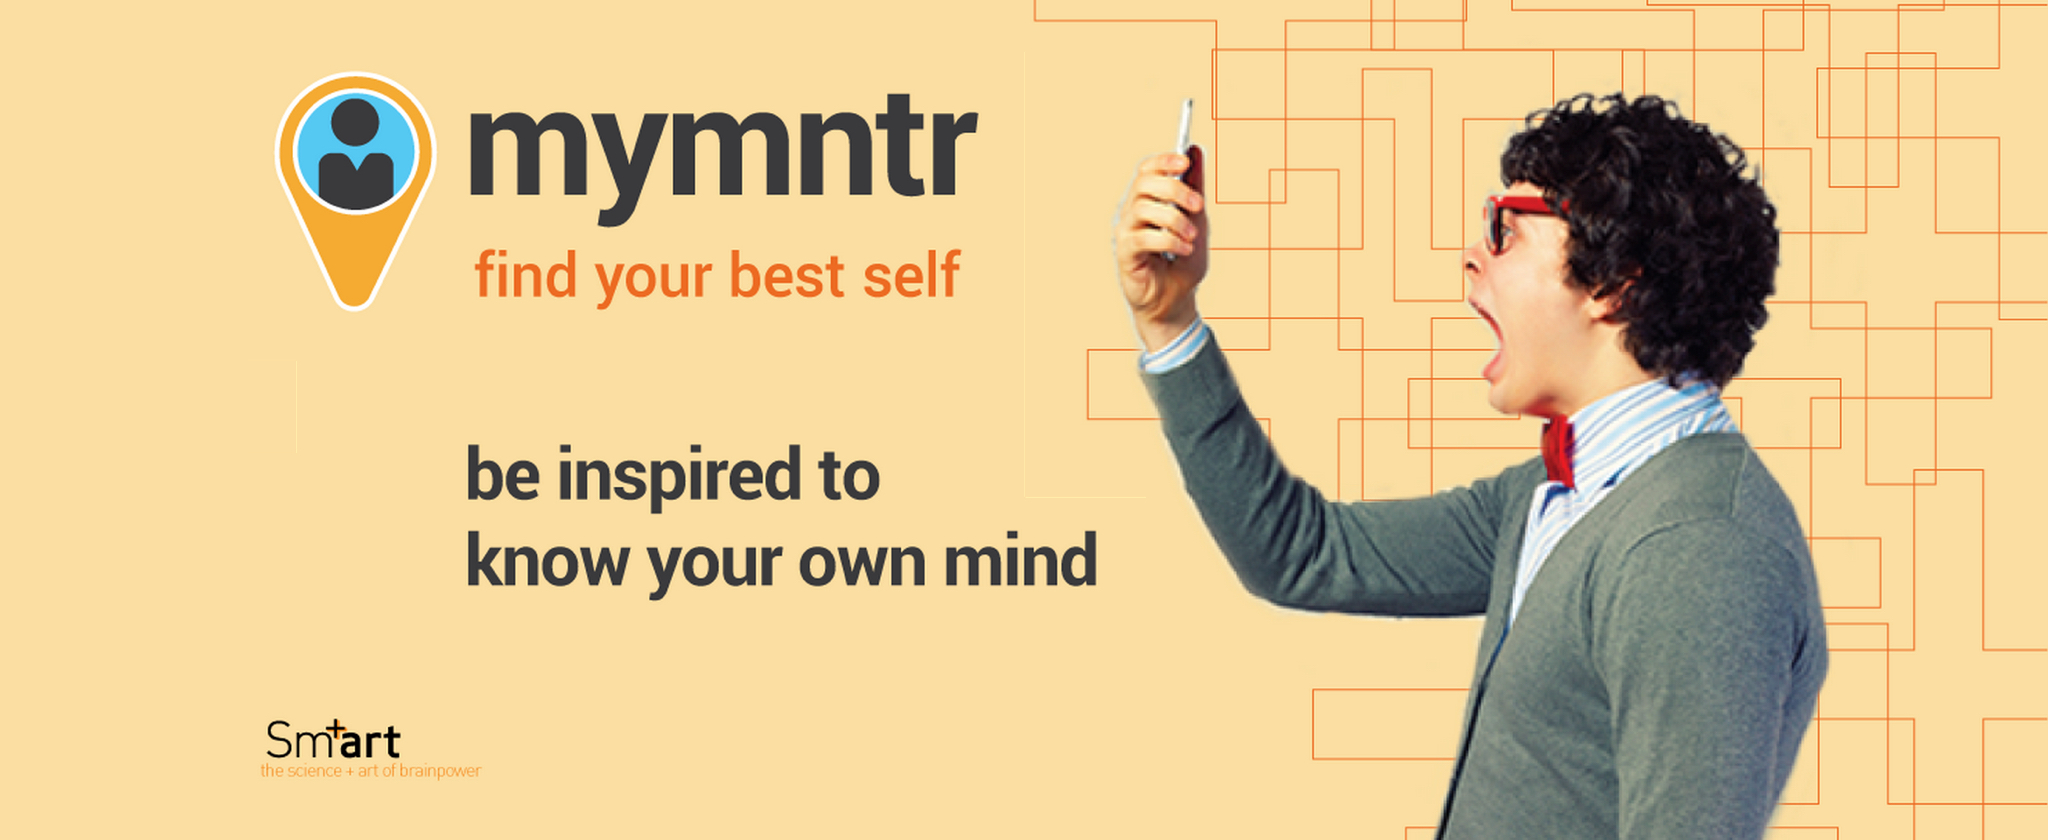
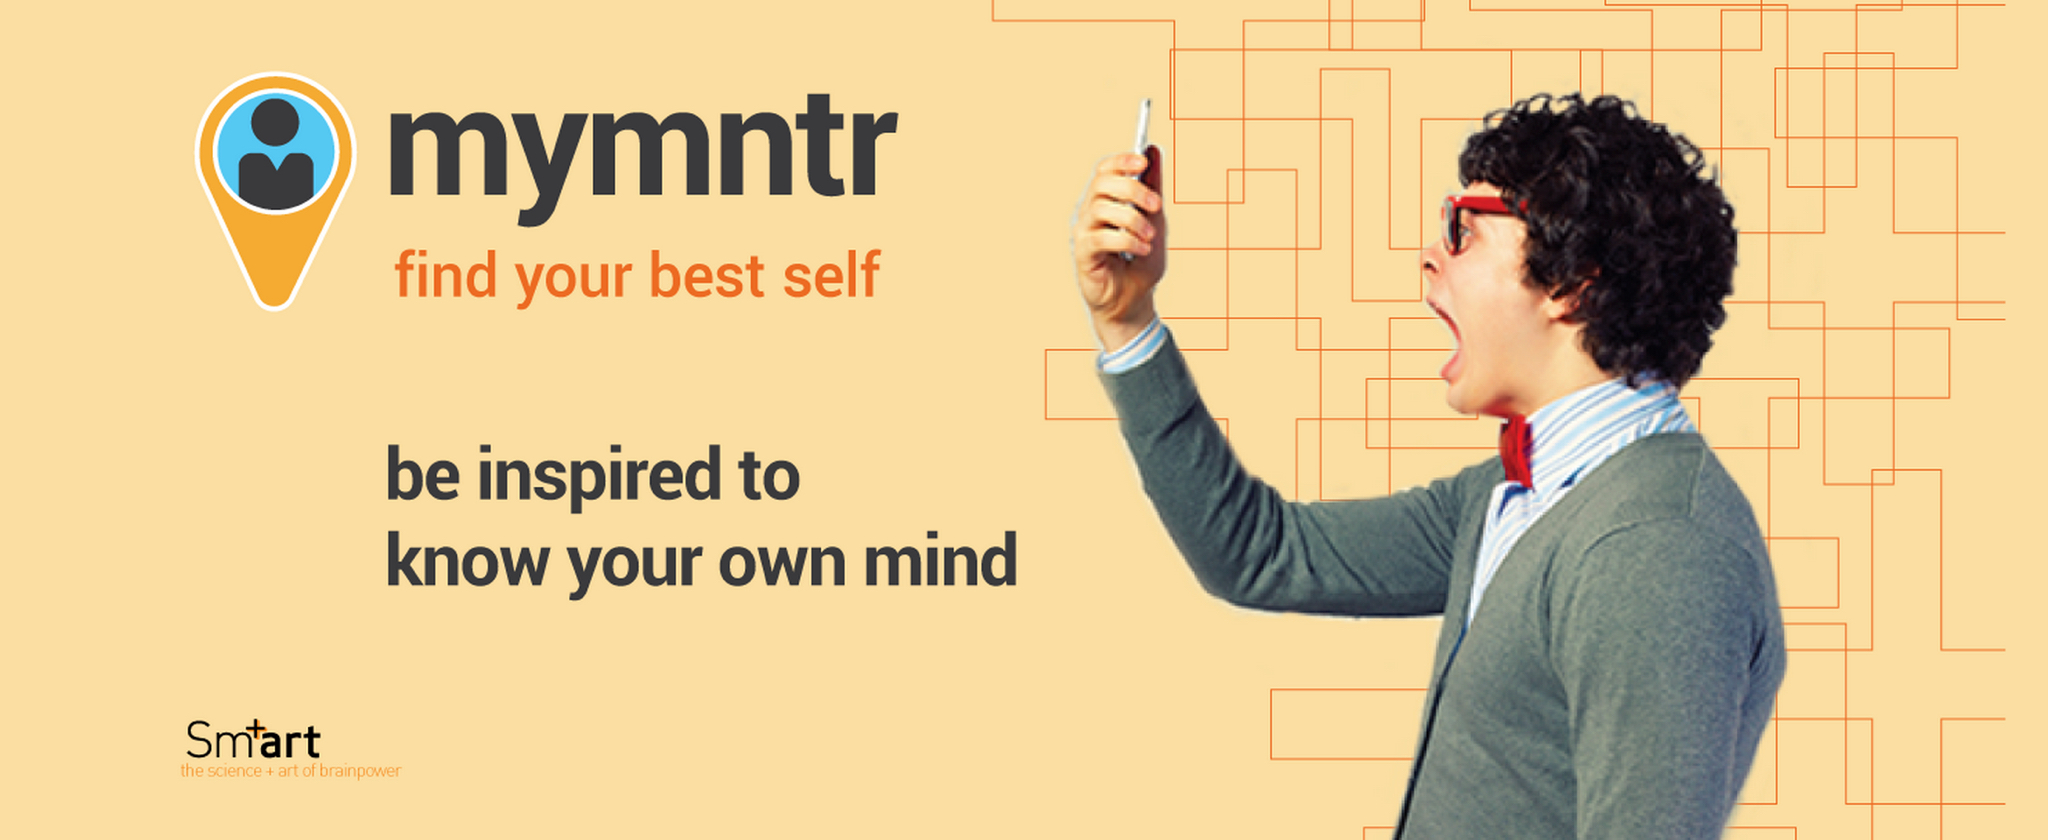
fix bug that showed the hero images incorrectly in the different devices. Set also a large-up media query.

diff --git a/app/assets/stylesheets/foundation_and_overrides.scss b/app/assets/stylesheets/foundation_and_overrides.scss
@@ -1637,6 +1637,15 @@ body {
   background-size: cover;
   background-position: center top;
   padding: rem-calc(250) 0;
+  @media #{$medium-up} {
+    padding: rem-calc(180) 0;
+  }
+  @media #{$large-up} {
+    padding: rem-calc(200) 0;
+  }
+  @media #{$xlarge-up} {
+    padding:rem-calc(300) 0;
+  }
 }
 .intro-blurb p {
   font-weight: 300;
@@ -1672,10 +1681,10 @@ li {
 }
 .screaming-hero {
   background-image: asset-url('screaming-hero-mobile.jpg');
-  @media #{$medium-only} {
+  @media #{$medium-up} {
     background-image: asset-url('screaming-hero-medium.jpg');
   }
-  @media #{$large-only} {
+  @media #{$large-up} {
     background-image: asset-url('screaming-hero-desktop.jpg');
   }
 }

diff --git a/app/views/logged_out/index.html.rb b/app/views/logged_out/index.html.rb
@@ -2,7 +2,7 @@ class Views::LoggedOut::Index < Views::Base
   needs :count
 
   def content
-    row(class:'screaming-hero hero-image full-width') {
+    row(class:'screaming-hero hero-image full-width small-12 medium-10 medium-centered') {
 
     }
     row(class:'small-blue-container show-for-small-only') {
@@ -19,6 +19,7 @@ class Views::LoggedOut::Index < Views::Base
         p "What happens when you are introduced to superpowers you never thought you had?"
         p "What happens when you have a user guide for your brain? One that is relevant to your everyday life?"
         p "You change. You adapt. You begin to become who you want to be by knowing how your brain works, how to use it better and ultimately, know your own mind."
+        p "Check out our videos to see more."
       }
       column('show-for-small-only small-6 small-centered') {
         image_tag('phone-asset.png', class: 'bottom-spacer')
